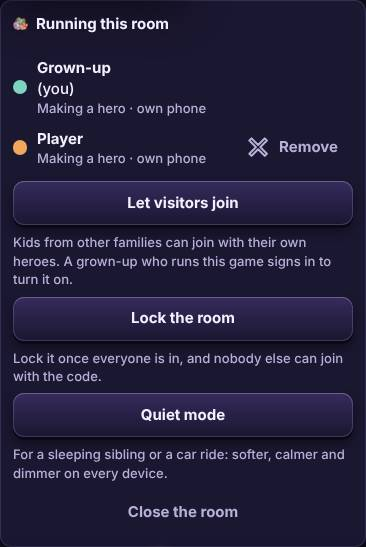
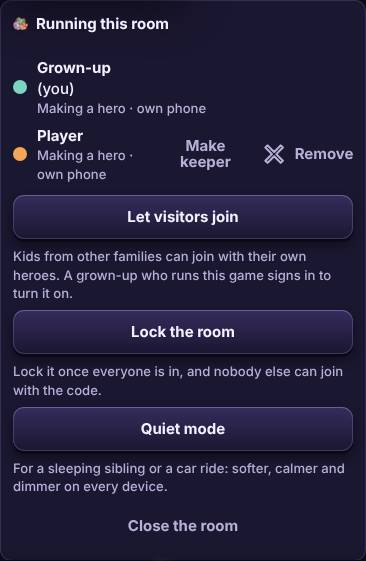
The keeper hand-over in the guide, now that #272 is on main (#257)
Make keeper in the room controls, and which phone is offered to keep the
party. The host panel's picture is retaken to show it. The reading-time
bound leaves room to fold a session's questions back in.

Claude-Session: https://claude.ai/code/session_01Psej4t8Yke6ogr53dF99dV

Changed region(s): [[0.0301, 0.0932, 0.9617, 0.9634], [0.0301, 0.9945, 0.9918, 1.0], [0.0301, 0.0311, 0.4508, 0.0622]]

diff --git a/packages/client/src/guide/guide.md b/packages/client/src/guide/guide.md
@@ -74,6 +74,7 @@ Whoever opened the room runs it. In Party Mode that is the big screen: tap **Roo
 - **Remove** takes a phone out of the game. That phone sees "The person running this game took this phone out of it." Each time a phone joins, the big screen says who joined, with **Remove** beside it, so a stranger is one tap from gone.
 - **Lock the room**: "Lock it once everyone is in, and nobody else can join with the code." Kids already here can still come back. **Let new players join again** undoes it.
 - **Quiet mode**: "For a sleeping sibling or a car ride: softer, calmer and dimmer on every device." It turns on for every phone in the room at once. **Turn quiet mode off** ends it.
+- **Make keeper** picks which phone is offered to keep the heroes. See signing in, below.
 - **Stop for today** saves the game for next time.
 - **Close the room** ends it for everyone, after one more tap on **Close it**. "Heroes and what they earned are kept."
 
@@ -131,7 +132,7 @@ To keep them for good, a grown-up taps **Sign in or create an account** on the s
 
 ![Signing in with an emailed code](../../public/guide-pictures/sign-in.jpg)
 
-At the end of a chapter, the phone that started the game also offers to keep the party (in Party Mode, that is the first phone that joined), with a button that says **Keep** and the heroes' names.
+At the end of a chapter, one phone also offers to keep the party, with a button that says **Keep** and the heroes' names. That is the phone that started the game, or in Party Mode the first phone that joined, unless the room controls picked another with **Make keeper**.
 
 Kids never sign in. They are nicknames that a grown-up keeps.
 
